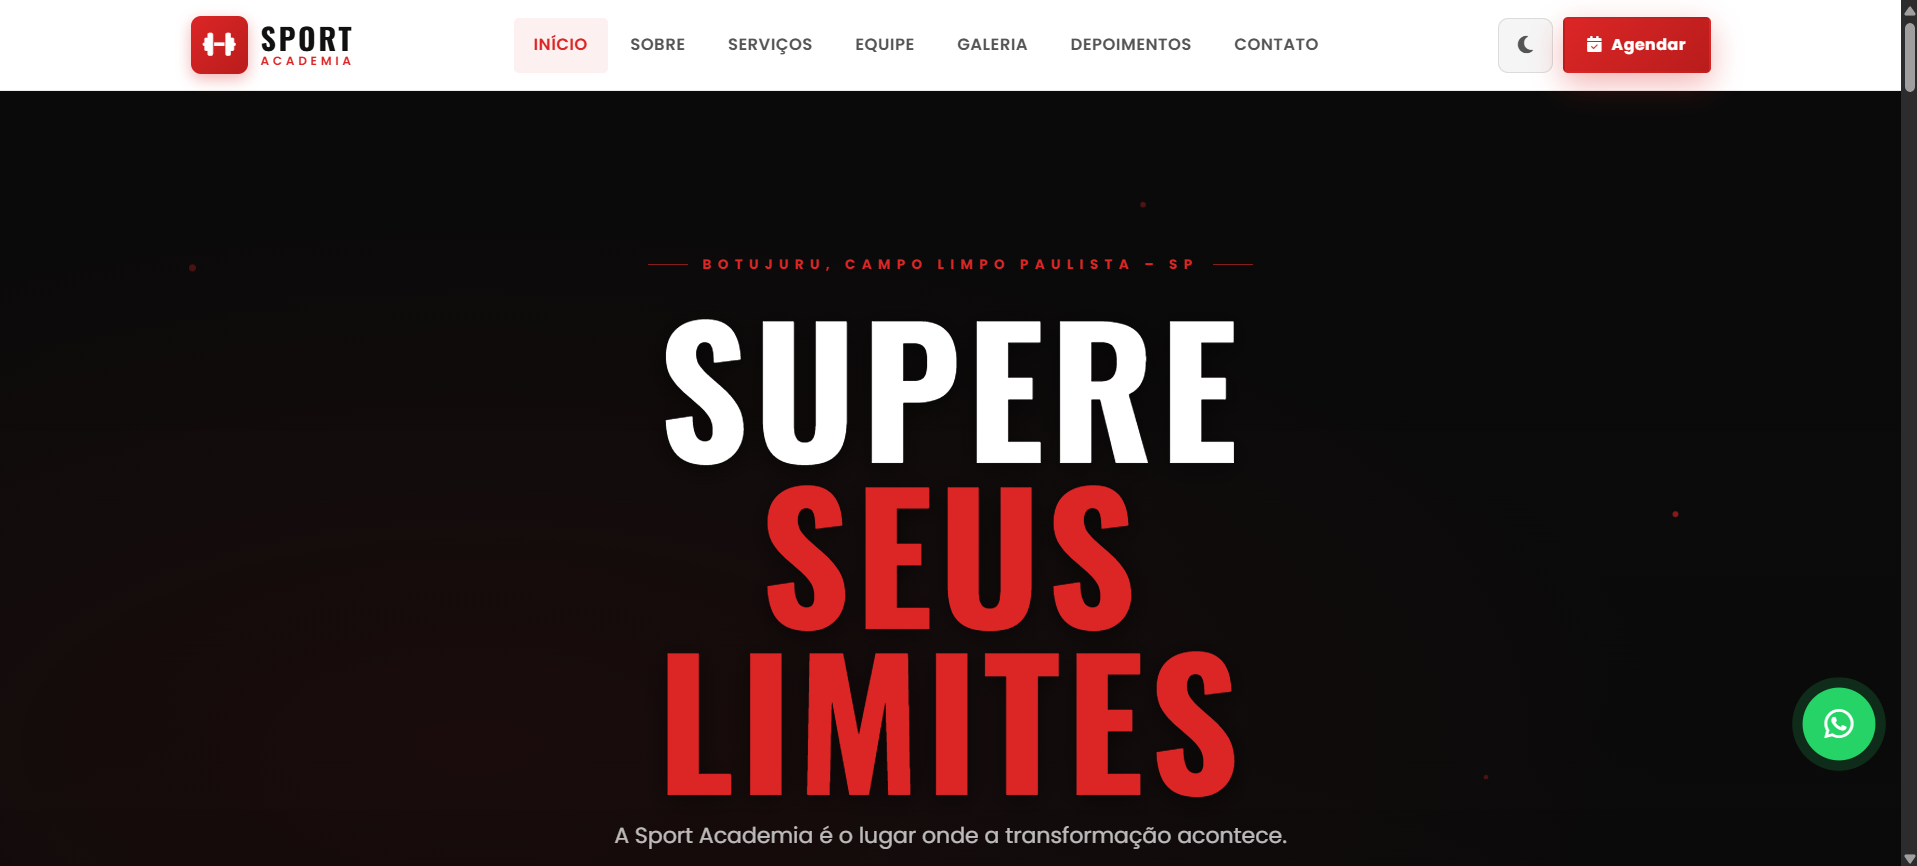
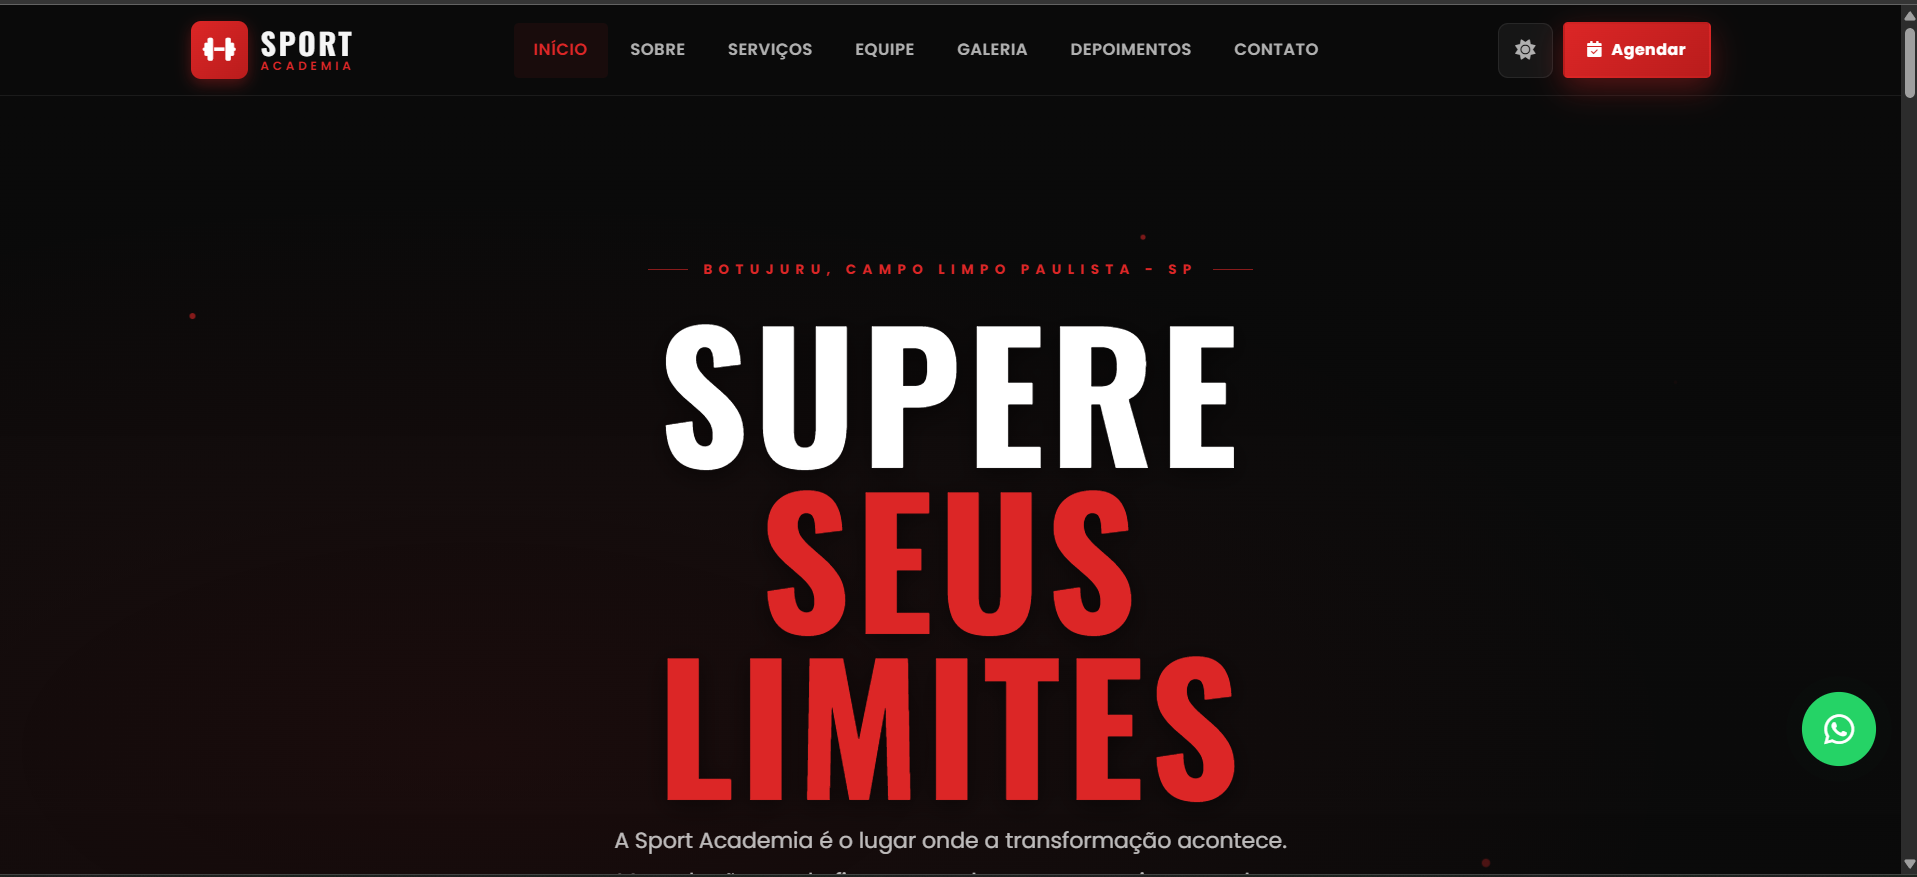
feat: atualizando projeto

diff --git a/index.html b/index.html
@@ -240,6 +240,88 @@
                 <div class="projects_container container">
                     <article class="projects_card">
                         <div class="projects_image">
+                            <img src="./assets/images/drdaniellesilvaadv.png"
+                                alt="Imagem do projeto Dr. Danielle Silva Advogada" class="projects_img">
+                            <a href="https://github.com/diegofranciscodasilva/Dr_DanielleSilva-Advogada" target="_blank"
+                                rel="noopener noreferrer" class="projects_button button">
+                                <i class="ri-arrow-right-up-line"></i>
+                            </a>
+                        </div>
+                        <div class="projects_content">
+                            <h3 class="projects_subtitle">WebSite</h3>
+                            <h2 class="projects_title">Dr. Danielle Silva Advogada</h2>
+                            <p class="projects_description">
+                                Site institucional para escritório de advocacia em Jarinú, SP.
+                            </p>
+                        </div>
+                        <div class="projects_buttons">
+                            <a href="https://github.com/diegofranciscodasilva/Dr_DanielleSilva-Advogada" target="_blank"
+                                rel="noopener noreferrer" class="projects_link">
+                                <i class="ri-github-fill"></i> View
+                            </a>
+                            <a href="https://diegofranciscodasilva.github.io/Dr_DanielleSilva-Advogada/" target="_blank"
+                                rel="noopener noreferrer" class="projects_link">
+                                <i class="ri-external-link-line"></i> View
+                            </a>
+                        </div>
+                    </article>
+                    <article class="projects_card">
+                        <div class="projects_image">
+                            <img src="./assets/images/sportacademia.png" alt="Imagem do projeto Sport Academia"
+                                class="projects_img">
+                            <a href="https://github.com/diegofranciscodasilva/Sport-Academia" target="_blank"
+                                rel="noopener noreferrer" class="projects_button button">
+                                <i class="ri-arrow-right-up-line"></i>
+                            </a>
+                        </div>
+                        <div class="projects_content">
+                            <h3 class="projects_subtitle">WebSite</h3>
+                            <h2 class="projects_title">Sport Academia</h2>
+                            <p class="projects_description">
+                                Site institucional para academia de musculação em Botujuru - Campo Limpo Paulista, SP.
+                            </p>
+                        </div>
+                        <div class="projects_buttons">
+                            <a href="https://github.com/diegofranciscodasilva/Sport-Academia" target="_blank"
+                                rel="noopener noreferrer" class="projects_link">
+                                <i class="ri-github-fill"></i> View
+                            </a>
+                            <a href="https://diegofranciscodasilva.github.io/Sport-Academia/" target="_blank"
+                                rel="noopener noreferrer" class="projects_link">
+                                <i class="ri-external-link-line"></i> View
+                            </a>
+                        </div>
+                    </article>
+                    <article class="projects_card">
+                        <div class="projects_image">
+                            <img src="./assets/images/fitelle.png" alt="Imagem do projeto Fit Elle"
+                                class="projects_img">
+                            <a href="https://github.com/diegofranciscodasilva/FitElle" target="_blank"
+                                rel="noopener noreferrer" class="projects_button button">
+                                <i class="ri-arrow-right-up-line"></i>
+                            </a>
+                        </div>
+                        <div class="projects_content">
+                            <h3 class="projects_subtitle">WebSite</h3>
+                            <h2 class="projects_title">Fit Elle</h2>
+                            <p class="projects_description">
+                                FitElle é um site de e-commerce especializado em roupas fitness femininas de alta
+                                qualidade.
+                            </p>
+                        </div>
+                        <div class="projects_buttons">
+                            <a href="https://github.com/diegofranciscodasilva/FitElle" target="_blank"
+                                rel="noopener noreferrer" class="projects_link">
+                                <i class="ri-github-fill"></i> View
+                            </a>
+                            <a href="https://diegofranciscodasilva.github.io/FitElle/" target="_blank"
+                                rel="noopener noreferrer" class="projects_link">
+                                <i class="ri-external-link-line"></i> View
+                            </a>
+                        </div>
+                    </article>
+                    <article class="projects_card">
+                        <div class="projects_image">
                             <img src="./assets/images/musicwebsite.png" alt="Imagem do projeto Music Web Site"
                                 class="projects_img">
                             <a href="https://github.com/diegofranciscodasilva/music-website" target="_blank"
